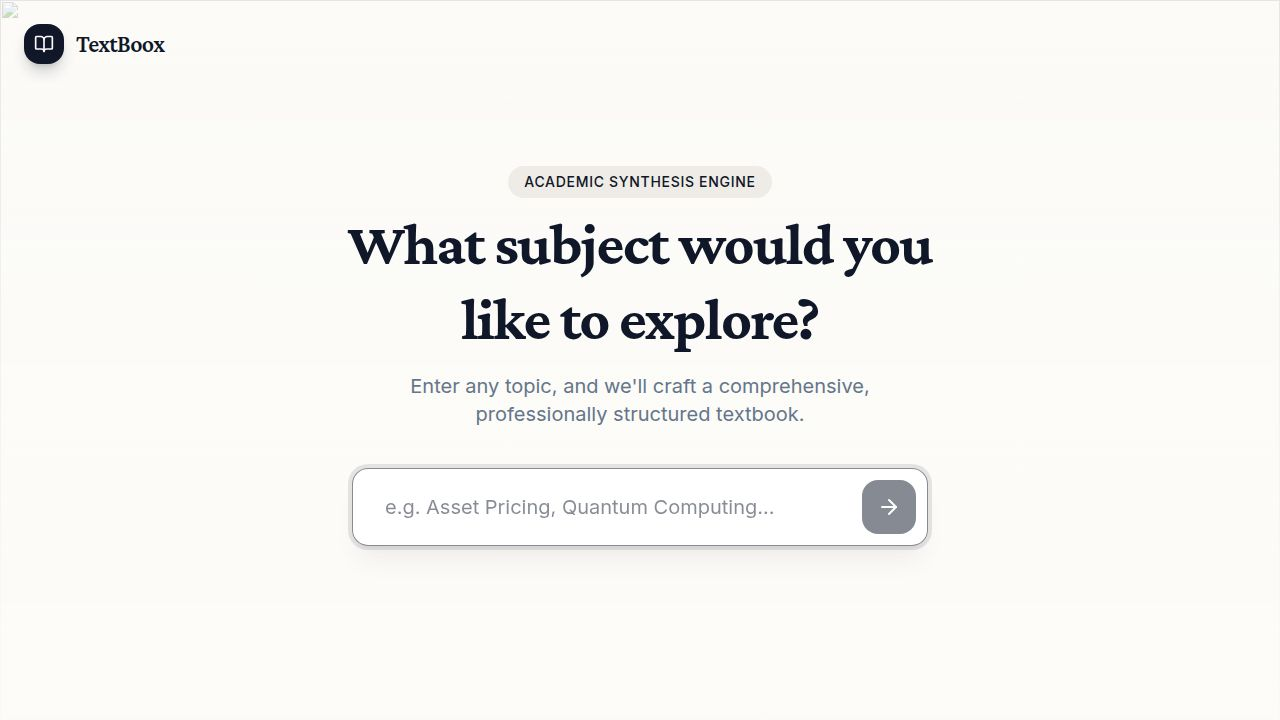
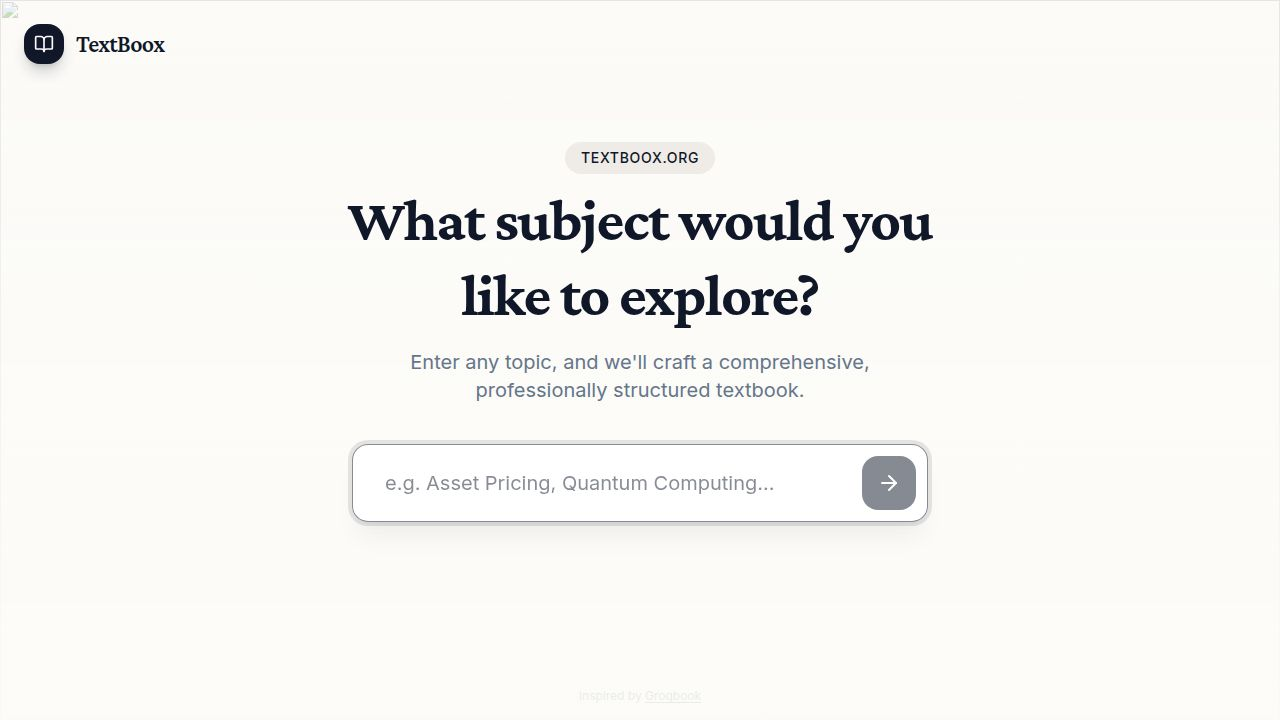
Add citation link to homepage crediting inspiration from Groqbook
Add a footer element to the Home.tsx page to include a citation link to the Groqbook GitHub repository.

Replit-Commit-Author: Agent
Replit-Commit-Session-Id: 377585b0-525a-4899-a7a9-1ec0c7ee5785
Replit-Commit-Checkpoint-Type: full_checkpoint
Replit-Commit-Event-Id: 222a9a9a-241c-48c8-9fde-3653b66a14af
Replit-Commit-Screenshot-Url: https://storage.googleapis.com/screenshot-production-us-central1/c2adefc3-ca37-4d74-b827-cf7a40625e41/377585b0-525a-4899-a7a9-1ec0c7ee5785/fKF42id
Replit-Helium-Checkpoint-Created: true

Changed region(s): [[0.25, 0.2139, 0.75, 0.5806], [0.2812, 0.6111, 0.7188, 0.7639]]

diff --git a/artifacts/textbook-generator/src/pages/Home.tsx b/artifacts/textbook-generator/src/pages/Home.tsx
@@ -252,6 +252,20 @@ export default function Home() {
 
         </AnimatePresence>
       </main>
+
+      <footer className="text-center py-4">
+        <p className="text-xs text-muted-foreground">
+          Inspired by{' '}
+          <a
+            href="https://github.com/ragibcs/groq-book-new?tab=readme-ov-file"
+            target="_blank"
+            rel="noopener noreferrer"
+            className="underline underline-offset-2 hover:text-primary transition-colors"
+          >
+            Groqbook
+          </a>
+        </p>
+      </footer>
     </div>
   );
 }
